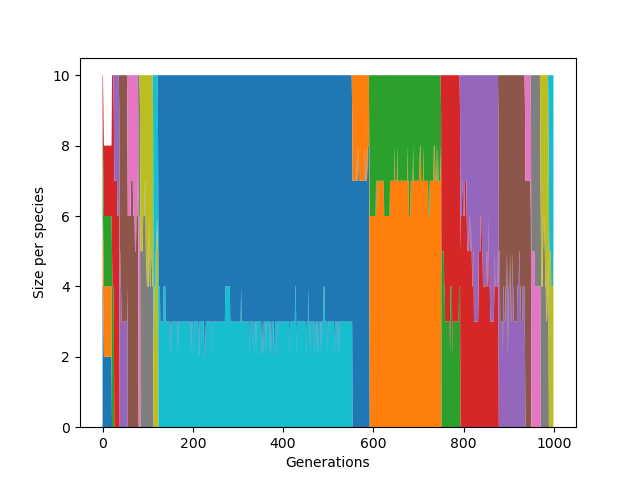
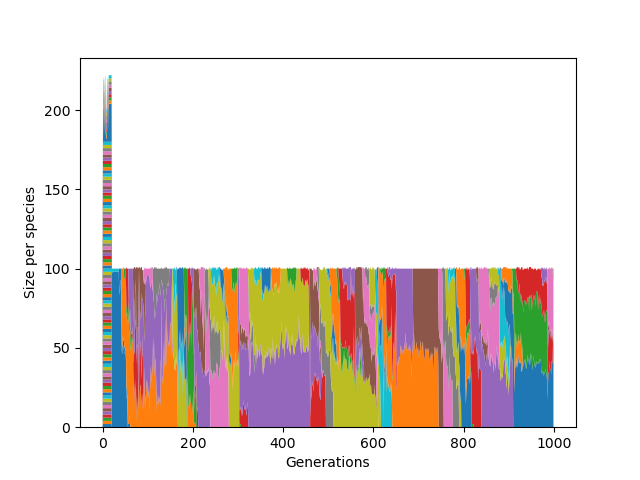
modified mountaincar code

diff --git a/NEATProgramming.py b/NEATProgramming.py
@@ -10,8 +10,8 @@ import visual
 
 path = "data/"
 #MAX_FITNESS = 200
-MAX_STEPS = 200
-MAX_GENERATIONS = 1000
+MAX_STEPS = 400
+MAX_GENERATIONS = 50
 #GAME_TO_TEST = 'CartPole-v0'
 GAME_TO_TEST = 'MountainCar-v0'
 
@@ -104,7 +104,7 @@ def run(config_path):
     stats = neat.StatisticsReporter()
     p.add_reporter(stats)
 
-    pe = neat.ParallelEvaluator(4, eval_genomes)
+    pe = neat.ParallelEvaluator(10, eval_genomes)
     winner = p.run(eval_genomes, MAX_GENERATIONS)  ## uncomment when not debugging
 
 #    debugFunction() ## for sampling the observation and action space of an OpenAI Game
